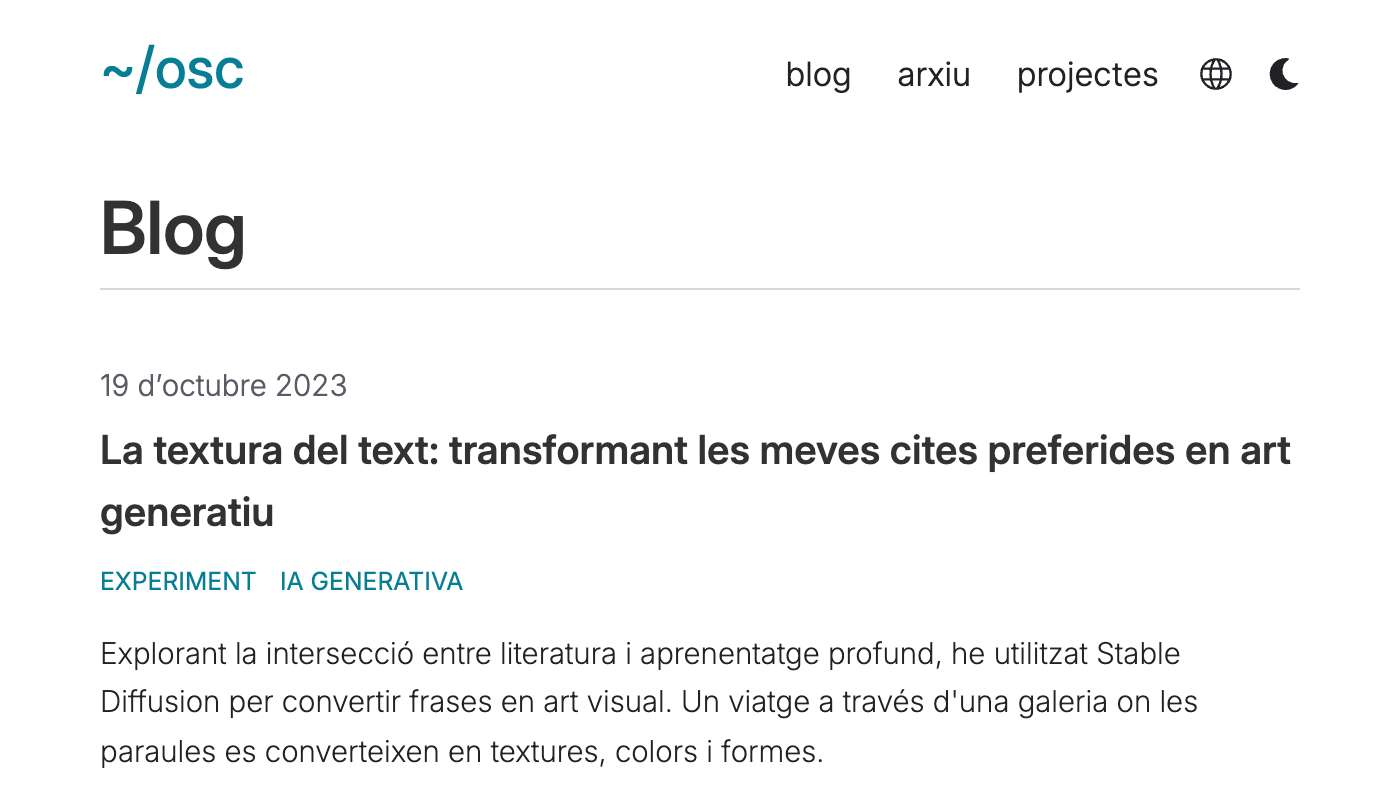
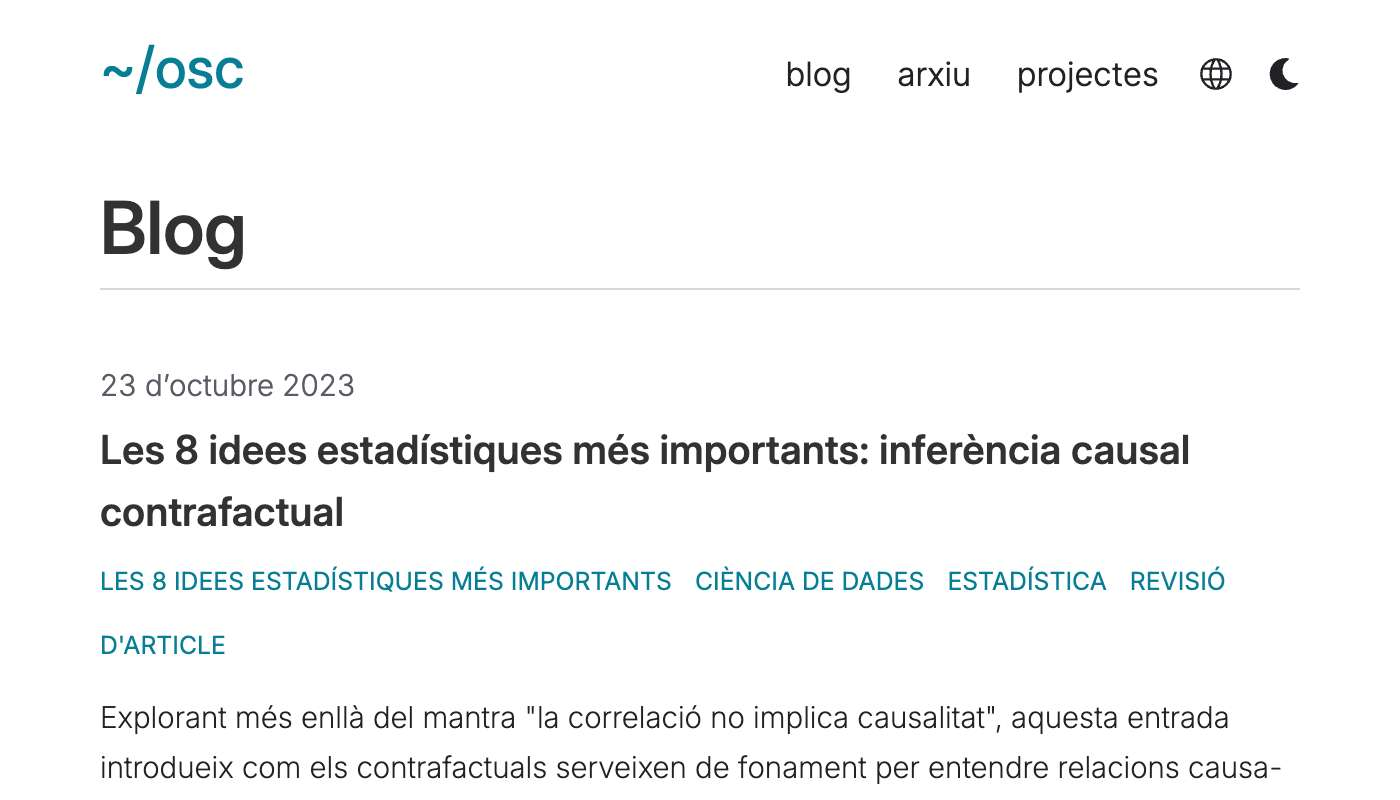
add counterfactual causal inference translations

diff --git a/content/blog/counterfactual-causal-inference/index.es.md b/content/blog/counterfactual-causal-inference/index.es.md
@@ -1,0 +1,107 @@
++++
+title = "Las 8 ideas estadísticas más importantes: inferencia causal contrafactual"
+date = 2023-10-23
+description = "Explorando más allá del mantra \"la correlación no implica causalidad\", esta entrada introduce cómo los contrafactuales sirven de piedra angular para entender relaciones causa-efecto."
+
+[taxonomies]
+tags = ["las 8 ideas estadísticas más importantes", "ciencia de datos", "estadística", "revisión de artículo"]
+
+[extra]
+footnote_backlinks = true
+social_media_card = "img/social_cards/es_blog_counterfactual_causal_inference.jpg"
++++
+
+Este artículo es el primero de una [serie de entradas](/es/tags/las-8-ideas-estadisticas-mas-importantes/) donde abordo las 8 ideas estadísticas más importantes de los últimos 50 años, según la revisión de [Gelman y Vehtari (2021)](https://arxiv.org/abs/2012.00174). Te invito a que me acompañes en este camino de aprendizaje mientras profundizamos en el primer concepto: **la inferencia causal contrafactual**.
+
+<details>
+  <summary>Introducción a la serie: Las 8 ideas estadísticas más importantes</summary>
+  <p>Los últimos 50 años han visto avances significativos en el campo de la estadística, moldeando la forma de entender y analizar datos. <a href="https://arxiv.org/abs/2012.00174">Gelman y Vehtari (2021)</a> revisaron las 8 ideas más importantes en estadísticas de los últimos 50 años.</p>
+
+  <p>Como parte de mi camino de aprendizaje, he decidido profundizar en estas 8 ideas y compartir mis hallazgos. En cada artículo, encontrarás una introducción a un concepto, junto con algunos recursos de aprendizaje. Así que, si te interesa la estadística, ¡estás en el sitio correcto!</p>
+</details>
+
+---
+
+## Inferencia causal contrafactual
+
+> «La correlación no implica causalidad.»
+
+Este mantra, manido hasta la saciedad, nos lleva a preguntarnos: ¿hay alguna forma de identificar la causalidad?
+
+{{ multilingual_quote(original="causal identification is possible, under assumptions, and one can state these assumptions rigorously and address them, in various ways, through design and analysis.", translated="La identificación causal es posible, bajo ciertas asunciones, y se pueden establecer estas suposiciones rigurosamente y abordarlas, de diversas maneras, a través del diseño y el análisis.", author="Gelman & Vehtari (2021)") }}
+
+Diferentes campos (econometría, epidemiología, psicología…) han visto surgir varios métodos para la **inferencia causal** —el proceso de determinar la relación causa-efecto entre variables— con un elemento en común: el modelado de preguntas causales en términos de **contrafactuales**.
+
+Un contrafactual es algo que no sucedió, pero *podría haber sucedido*. Un ejemplo de una pregunta contrafactual: «¿Cómo sería tu vida si hubieses aceptado esa oferta de trabajo que rechazaste?».
+
+Es un contrafactual porque se pregunta sobre un resultado potencial que no ocurrió. De hecho, otra forma de pensar en contrafactuales es considerarlos **resultados potenciales**.
+
+Los métodos de inferencia causal buscan cuantificar estas respuestas mediante el uso de métodos estadísticos, modelos causales y otras técnicas. Usando la inferencia causal, podemos abordar preguntas como:
+
+- ¿La introducción temprana de alimentos alergénicos reduce el riesgo de desarrollar alergias en los niños?
+- ¿Cuál es el efecto de la descriminalización de las drogas en las tasas de abuso de sustancias?
+- ¿Debería tener una mascota?
+- ¿Qué hubiese ocurrido si hubiera hecho ejercicio de forma regular durante los últimos seis meses?
+
+Exploremos este último ejemplo.
+
+Lo ideal sería utilizar un **ensayo controlado aleatorizado** (RCT por sus siglas en inglés) para responder a esta pregunta. Dividiríamos aleatoriamente a personas en dos grupos: uno haría ejercicio regularmente durante un mes y el otro no. Ambos registrarían su estado de ánimo de forma periódica.
+
+¿Por qué no podemos simplemente observar a las personas que hacen ejercicio regularmente y comparar su estado de ánimo con aquellos que no lo hacen? Por las **variables de confusión**.
+
+Una **variable de confusión** es un factor que influye tanto en el tratamiento como en el resultado. Por ejemplo, puede que las personas que hacen ejercicio regularmente tengan más tiempo libre. ¿No mejoraría tu estado de ánimo si tuvieses más tiempo libre? Y ¿no te resultaría más fácil hacer ejercicio regularmente con ese tiempo extra? Te haces una idea: la variable de confusión (tiempo libre) puede influir tanto en el tratamiento (ejercicio) como en el resultado (estado de ánimo).
+
+Por lo tanto, un RCT tiene dos ventajas clave: gracias a la aleatorización, elimina el sesgo de las variables de confusión al aislar los efectos del tratamiento/intervención, y nos permite cuantificar la incertidumbre en nuestras estimaciones. El **resultado contrafactual** para cada persona que hizo ejercicio se estimaría que es el estado de ánimo medio del grupo que no hizo ejercicio, y viceversa.
+
+Pero los RCTs no siempre son posibles. A veces son poco éticos[^1], muy costosos o llevan demasiado tiempo. En estos casos, podemos usar la inferencia causal contrafactual para estimar el efecto de una intervención. Hay varios métodos para ello, como el emparejamiento, las [diferencias en diferencias](https://es.wikipedia.org/wiki/Diferencias_en_diferencias) o la [estimación de variables instrumentales](https://es.wikipedia.org/wiki/Variable_instrumental).
+
+En nuestro ejemplo, podríamos utilizar el **emparejamiento** en lugar de un RCT. Es decir, recopilaríamos datos (observacionales) de varios individuos y buscaríamos pares de personas que fueran similares en todos los aspectos (edad, dieta, patrones de sueño, cantidad de tiempo libre…) excepto en sus hábitos de ejercicio. Estas variables adicionales nos ayudarían a controlar las variables de confusión. Con estos datos, compararíamos el estado de ánimo de estas parejas para responder a nuestra pregunta. Mucho más sencillo. Veámoslo:
+
+{% wide_container() %}
+
+| Sujeto   | Edad | Calidad de dieta | Horas de sueño | Tiempo libre (horas) | Ejercicio (horas/semana) | Puntuación de ánimo |
+|----------|------|------------------|----------------|----------------------|--------------------------|---------------------|
+| Adam     | 25   | Buena            | 8              | 2                    | 4                        | 8                   |
+| May      | 24   | Buena            | 8              | 2.5                  | 0                        | 6                   |
+| Anton    | 52   | Media            | 6.5            | 1                    | 4                        | 8                   |
+| Kashika  | 54   | Media            | 7              | 1                    | 0                        | 6                   |
+| Oluchi   | 35   | Mala             | 6              | 3                    | 4                        | 7                   |
+| Kílian   | 32   | Mala             | 6.5            | 3                    | 0                        | 5                   |
+
+{% end %}
+
+Tomando la tabla ilustrativa de arriba, podríamos emparejar a 3 pares de sujetos en base a todas las variables excepto el ejercicio. ¿Ves algún patrón en términos de estado de ánimo?
+
+Al comparar estos emparejamientos, podríamos estimar el efecto causal del ejercicio sobre el estado de ánimo, respondiendo a nuestra pregunta a través de la inferencia causal contrafactual. Una respuesta contrafactual (muy específica y simplificada) sería «si May hiciera ejercicio 4 horas a la semana, su estado de ánimo sería aproximadamente 2 puntos más alto».
+
+## Conclusión
+
+En este artículo hemos explorado el mundo de la inferencia causal. Si bien la correlación nos puede dar pistas valiosas, es a través de la inferencia causal que nos acercamos a entender el «por qué» detrás de los fenómenos. Comprender la causalidad es crucial para tomar decisiones informadas e implementar intervenciones efectivas en diversos campos.
+
+Hemos visto cómo los RCTs son el estándar de oro para la inferencia causal, pero que no siempre son posibles. En esos casos, podemos recurrir a la inferencia causal contrafactual.
+
+La inferencia causal contrafactual se utiliza en la atención sanitaria (para estimar el efecto de un tratamiento), en la educación (para determinar la eficacia de un nuevo plan de estudios), en la tecnología (para ver cómo reaccionan los usuarios ante una nueva característica) y en muchos otros campos.
+
+{{ multilingual_quote(original="Felix qui potuit rerum cognoscere causas<br>
+    Atque metus omnes, et inexorabile fatum<br>
+    Subjecit pedibus, strepitumque Acherontis avari.", translated="Feliz es aquel que ha podido conocer las causas de las cosas,<br>
+    y ha puesto todo temor, y el inexorable destino, y el ruido<br>
+    del ávido Aqueronte, bajo sus pies.", author="Virgilio") }}
+
+Esta cita de Virgilio (29 a.C.) nos recuerda que la búsqueda de las «causas de las cosas» no es sólo un ejercicio académico; es una antigua búsqueda humana que puede acercarnos a una comprensión armoniosa del mundo y nuestro lugar en él.
+
+¡Eso es todo por hoy! En el próximo artículo aprenderemos sobre **bootstrapping y la inferencia basada en la simulación**.
+
+## Recursos de aprendizaje
+
+**Proyecto divertido**: [Spurious correlations](https://tylervigen.com/spurious-correlations) (correlaciones espurias) es un proyecto de Tyler Vigen que muestra fuertes (pero espurias) correlaciones entre variables aparentemente no relacionadas, como el número de personas que se ahogan en una piscina y el número de películas en las que aparece Nicolas Cage cada año.
+
+**Podcast**: [Alan Hájek on puzzles and paradoxes in probability and expected value — 80,000 Hours Podcast (2022)](https://80000hours.org/podcast/episodes/alan-hajek-probability-expected-value/#counterfactuals-021638). Una discusión profundamente interesante sobre probabilidad, valor esperado y contrafactuales. La discusión se adentra (a partir del minuto 02:16:38) en los matices del razonamiento contrafactual y la necesidad de precisión en el establecimiento de reglas lógicas para ellos. Hájek argumenta que la mayoría de los contrafactuales son esencialmente falsos, pero «aproximadamente verdaderos y lo suficientemente cercanos a la verdad para transmitir información útil».
+
+**Artículo académico**: [Causal inference based on counterfactuals — Höfler (2005)](https://doi.org/10.1186/1471-2288-5-28). Un resumen sobre los enfoques relacionados con contrafactuales. Revisa los experimentos imperfectos, los ajustes por factores de confusión, las exposiciones variables en el tiempo, los riesgos contrapuestos y la probabilidad de causalidad.
+
+**Libro**: [El libro del porqué — Judea Pearl (2018)](https://www.pasadopresente.com/component/booklibraries/bookdetails/2020-06-17-11-33-26). Una inmersión profunda en la ciencia de la inferencia y el descubrimiento causal, explorando teorías, métodos y aplicaciones en el mundo real. Pearl sostiene que todos los resultados potenciales pueden derivarse de los modelos de ecuaciones estructurales y expone los problemas que plantean otros enfoques, como el emparejamiento.
+
+---
+
+[^1]: Lamentablemente, hay demasiados ejemplos reales de investigación no ética. Véase el [experimento Tuskegee](https://es.wikipedia.org/wiki/Experimento_Tuskegee), los [experimentos de sífilis en Guatemala](https://es.wikipedia.org/wiki/Experimentos_sobre_s%C3%ADfilis_en_Guatemala), o los [numerosos ejemplos de empresas farmacéuticas que no respetan los principios fundamentales de la investigación ética en países africanos (en inglés)](https://en.wikipedia.org/wiki/Medical_experimentation_in_Africa). Los métodos de inferencia causal contrafactual pueden ser una alternativa cuando la realización de un RCT es éticamente problemático.

diff --git a/content/blog/counterfactual-causal-inference/index.ca.md b/content/blog/counterfactual-causal-inference/index.ca.md
@@ -1,0 +1,107 @@
++++
+title = "Les 8 idees estadístiques més importants: inferència causal contrafactual"
+date = 2023-10-23
+description = "Explorant més enllà del mantra \"la correlació no implica causalitat\", aquesta entrada introdueix com els contrafactuals serveixen de fonament per entendre relacions causa-efecte."
+
+[taxonomies]
+tags = ["les 8 idees estadístiques més importants", "ciència de dades", "estadística", "revisió d'article"]
+
+[extra]
+footnote_backlinks = true
+social_media_card = "img/social_cards/ca_blog_counterfactual_causal_inference.jpg"
++++
+
+Aquest article és el primer d'una [sèrie d'entrades](/ca/tags/les-8-idees-estadistiques-mes-importants/) on exploro les 8 idees estadístiques més importants dels últims 50 anys, segons la revisió de [Gelman i Vehtari (2021)](https://arxiv.org/abs/2012.00174). Et convido que m'acompanyis en aquest camí d'aprenentatge mentre aprofundim en el primer concepte: l'**inferència causal contrafactual**.
+
+<details>
+  <summary>Introducció a la sèrie: Les 8 idees estadístiques més importants</summary>
+  <p>Els últims cinquanta anys han vist avenços significatius en el camp de l'estadística, canviant la manera d'entendre i analitzar dades. <a href="https://arxiv.org/abs/2012.00174">Gelman i Vehtari (2021)</a> han revisat les 8 idees més importants en estadística dels últims 50 anys.</p>
+
+  <p>Com a part del meu camí d'aprenentatge, he decidit aprofundir en aquestes 8 idees i compartir els meus descobriments. A cada article trobaràs una introducció a un concepte, així com alguns recursos per aprendre'n més. Així que, si t'interessa l'estadística, ets al lloc adequat!</p>
+</details>
+
+---
+
+## Inferència causal contrafactual
+
+> «La correlació no implica causalitat.»
+
+Aquest mantra, repetit ad nauseam, ens porta a preguntar-nos: hi ha alguna manera d'identificar la causalitat?
+
+{{ multilingual_quote(original="causal identification is possible, under assumptions, and one can state these assumptions rigorously and address them, in various ways, through design and analysis.", translated="La identificació causal és possible, sota certes premisses, i es poden establir aquestes premisses rigorosament i abordar-les, de diverses maneres, a través del disseny i l'anàlisi.", author="Gelman & Vehtari (2021)") }}
+
+Diversos camps (econometria, epidemiologia, psicologia…) han vist sorgir diversos mètodes per a la **inferència causal** —el procés de determinar la relació causa-efecte entre variables— amb un element en comú: la formulació de preguntes causals en termes de **contrafactuals**.
+
+Un contrafactual és alguna cosa que no ha passat, però *podria haver passat*. Un exemple d'una pregunta contrafactual: «Com seria la teva vida si haguessis acceptat aquella oferta de treball que vas rebutjar?».
+
+És un contrafactual perquè s'inquireix sobre un resultat potencial que no va ocórrer. De fet, una altra manera de pensar en contrafactuals és considerar-los **resultats potencials**.
+
+Els mètodes d'inferència causal busquen quantificar aquestes respostes mitjançant l'ús de tècniques estadístiques, models causals i altres enfocaments. Amb l'inferència causal, podem tractar preguntes com:
+
+- La introducció primerenca d'aliments al·lergògens redueix el risc de desenvolupar al·lèrgies als nens?
+- Com afecta la descriminalització de les drogues a les taxes d'abús de substàncies?
+- Hauria de tenir una mascota?
+- Què hauria passat si hagués fet exercici de forma regular durant els darrers sis mesos?
+
+Examinem aquest últim exemple.
+
+L'ideal seria utilitzar un **assaig controlat aleatoritzat** (RCT per les seves sigles en anglès) per respondre a aquesta pregunta. Repartiríem persones a l'atzar en dos grups: un faria exercici regularment durant un mes i l'altre no. Tots dos registrarien el seu estat d'ànim periòdicament.
+
+¿Per què no podem simplement observar les persones que fan exercici regularment i comparar el seu estat d'ànim amb les que no? Per les **variables de confusió**.
+
+Una **variable de confusió** és un factor que influeix tant en el tractament com en el resultat. Per exemple, podria ser que les persones que fan exercici regularment tinguin més temps lliure. No milloraria el teu estat d'ànim si tinguessis més temps lliure? I no seria més fàcil fer exercici regularment amb aquest temps extra? Ho veus, no? La variable de confusió (temps lliure) pot influir tant en el tractament (exercici) com en el resultat (estat d'ànim).
+
+Per tant, un RCT té dos avantatges clau: gràcies a l'aleatorització, elimina el biaix de les variables de confusió aïllant els efectes del tractament/intervenció, i ens permet quantificar la incertesa en les nostres estimacions. El **resultat contrafactual** per a cada persona que va fer exercici s'estimaria que és l'estat d'ànim mitjà del grup que no va fer exercici, i viceversa.
+
+Però els RCT no sempre són possibles. A vegades són poc ètics[^1], massa cars o requereixen massa temps. En aquests casos, podem utilitzar l'inferència causal contrafactual per estimar l'efecte d'una intervenció. Hi ha diversos mètodes, com l'aparellament, les [diferències en diferències](https://es.wikipedia.org/wiki/Diferencias_en_diferencias) o l'[estimació de variables instrumentals](https://es.wikipedia.org/wiki/Variable_instrumental).
+
+En el nostre exemple, podríem emprar l'**aparellament** en lloc d'un RCT. És a dir, recolliríem dades (observacionals) de diversos individus i buscaríem parelles de persones que fossin semblants en tots els aspectes (edat, dieta, patrons de son, quantitat de temps lliure…) excepte en els seus hàbits d'exercici. Aquestes variables addicionals ens ajudarien a controlar les variables de confusió. Amb aquestes dades, compararíem l'estat d'ànim d'aquestes parelles per respondre a la nostra pregunta. Molt més senzill. Vegem-ho:
+
+{% wide_container() %}
+
+| Subjecte | Edat | Qualitat de dieta | Hores de son | Temps lliure (hores) | Exercici (hores/setmana) | Puntuació d'ànim |
+|----------|------|-------------------|--------------|----------------------|--------------------------|-------------------|
+| Adam     | 25   | Bona              | 8            | 2                    | 4                        | 8                 |
+| May      | 24   | Bona              | 8            | 2.5                  | 0                        | 6                 |
+| Anton    | 52   | Mitjana           | 6.5          | 1                    | 4                        | 8                 |
+| Kashika  | 54   | Mitjana           | 7            | 1                    | 0                        | 6                 |
+| Oluchi   | 35   | Dolenta           | 6            | 3                    | 4                        | 7                 |
+| Kílian   | 32   | Dolenta           | 6.5          | 3                    | 0                        | 5                 |
+
+{% end %}
+
+Prenent aquesta taula il·lustrativa, podríem ajuntar a 3 parelles de subjectes basant-nos en totes les variables llevat de l'exercici. Veus algun patró en termes d'estat d'ànim?
+
+En comparar aquestes parelles, podríem estimar l'efecte causal de l'exercici sobre l'estat d'ànim, responent a la nostra pregunta mitjançant la inferència causal contrafactual. Una resposta contrafactual (molt específica i simplificada) seria: "si la May fes exercici 4 hores a la setmana, el seu estat d'ànim seria aproximadament 2 punts més alt".
+
+## Conclusió
+
+En aquest article hem explorat el món de la inferència causal. Encara que la correlació ens pot donar pistes valuoses, és a través de la inferència causal que ens apropem a entendre el "per què" darrere dels fenòmens. Comprendre la causalitat és crucial per prendre decisions informades i implementar intervencions efectives en diversos àmbits.
+
+Hem vist com els RCTs són l'estàndard d'or per a la inferència causal, però que no sempre són possibles. En aquests casos, podem recórrer a la inferència causal contrafactual.
+
+La inferència causal contrafactual s'utilitza en l'atenció sanitària (per estimar l'efecte d'un tractament), en l'educació (per determinar l'eficàcia d'un nou pla d'estudis), en la tecnologia (per veure com reaccionen els usuaris davant una nova característica) i en molts altres àmbits.
+
+{{ multilingual_quote(original="Felix qui potuit rerum cognoscere causas<br>
+    Atque metus omnes, et inexorabile fatum<br>
+    Subjecit pedibus, strepitumque Acherontis avari.", translated="Feliç és aquell que ha pogut conèixer les causes de les coses,<br>
+    i ha posat tota por, i el destí inexorable, i el soroll<br>
+    de l'àvid Aqueront, sota els seus peus.", author="Virgili") }}
+
+Aquesta cita de Virgili (29 aC) ens recorda que la recerca de les "causes de les coses" no és només un exercici acadèmic; és una antiga cerca humana que pot acostar-nos a una comprensió harmònica del món i el nostre lloc en ell.
+
+Això és tot per avui! En el pròxim article aprendrem sobre **bootstrapping i la inferència basada en la simulació**.
+
+## Recursos d'aprenentatge
+
+**Projecte divertit**: [Spurious correlations](https://tylervigen.com/spurious-correlations) (correlacions espúries) és un projecte de Tyler Vigen que mostra fortes (però espúries) correlacions entre variables aparentment no relacionades, com el nombre de persones que s'ofeguen en una piscina i el nombre de pel·lícules en què apareix Nicolas Cage cada any.
+
+**Pòdcast**: [Alan Hájek on puzzles and paradoxes in probability and expected value — 80,000 Hours Podcast (2022)](https://80000hours.org/podcast/episodes/alan-hajek-probability-expected-value/#counterfactuals-021638). Una discussió profundament interessant sobre probabilitat, valor esperat i contrafactuals. La discussió s'endinsa (a partir del minut 02:16:38) en els matisos del raonament contrafactual i la necessitat de precisió en l'establiment de regles lògiques per a ells. Hájek argumenta que la majoria dels contrafactuals són essencialment falsos, però "aproximadament veritables i prou propers a la veritat per transmetre informació útil".
+
+**Article acadèmic**: [Causal inference based on counterfactuals — Höfler (2005)](https://doi.org/10.1186/1471-2288-5-28). Un resum sobre els enfocaments relacionats amb contrafactuals. Revisa els experiments imperfectes, els ajustaments per factors de confusió, les exposicions variables en el temps, els riscos contraposats i la probabilitat de causalitat.
+
+**Llibre**: [El libro del porqué — Judea Pearl (2018)](https://www.pasadopresente.com/component/booklibraries/bookdetails/2020-06-17-11-33-26). Una immersió profunda en la ciència de la inferència i el descobriment causal, explorant teories, mètodes i aplicacions en el món real. Pearl sosté que tots els resultats potencials poden derivar-se dels models d'equacions estructurals i exposa els problemes que plantegen altres enfocaments, com l'ajuntament.
+
+---
+
+[^1]: Lamentablement, hi ha massa exemples reals d'investigació no ètica. Vegeu l'[experiment Tuskegee](https://es.wikipedia.org/wiki/Experimento_Tuskegee), els [experiments de sífilis a Guatemala](https://es.wikipedia.org/wiki/Experimentos_sobre_s%C3%ADfilis_en_Guatemala), o els [nombrosos exemples d'empreses farmacèutiques que no respecten els principis fonamentals de la investigació ètica en països africans (en anglès)](https://en.wikipedia.org/wiki/Medical_experimentation_in_Africa). Els mètodes d'inferència causal contrafactual poden ser una alternativa quan la realització d'un RCT és èticament problemàtic.
